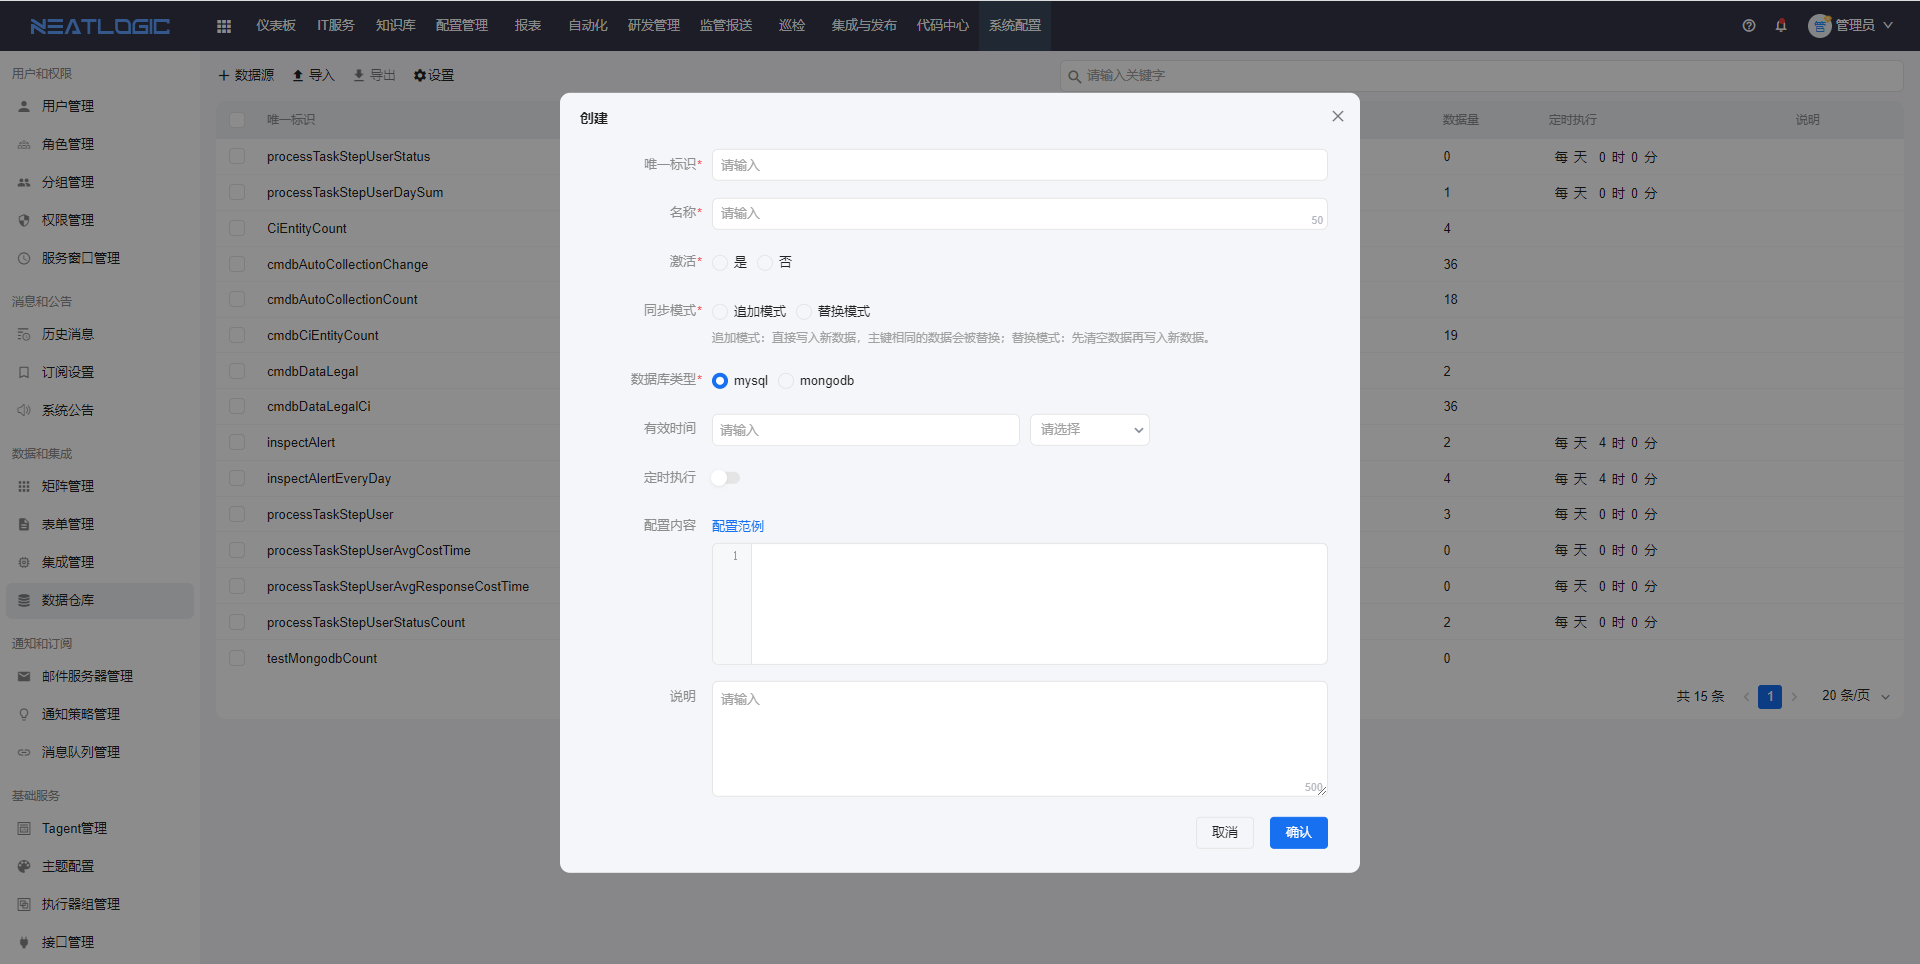
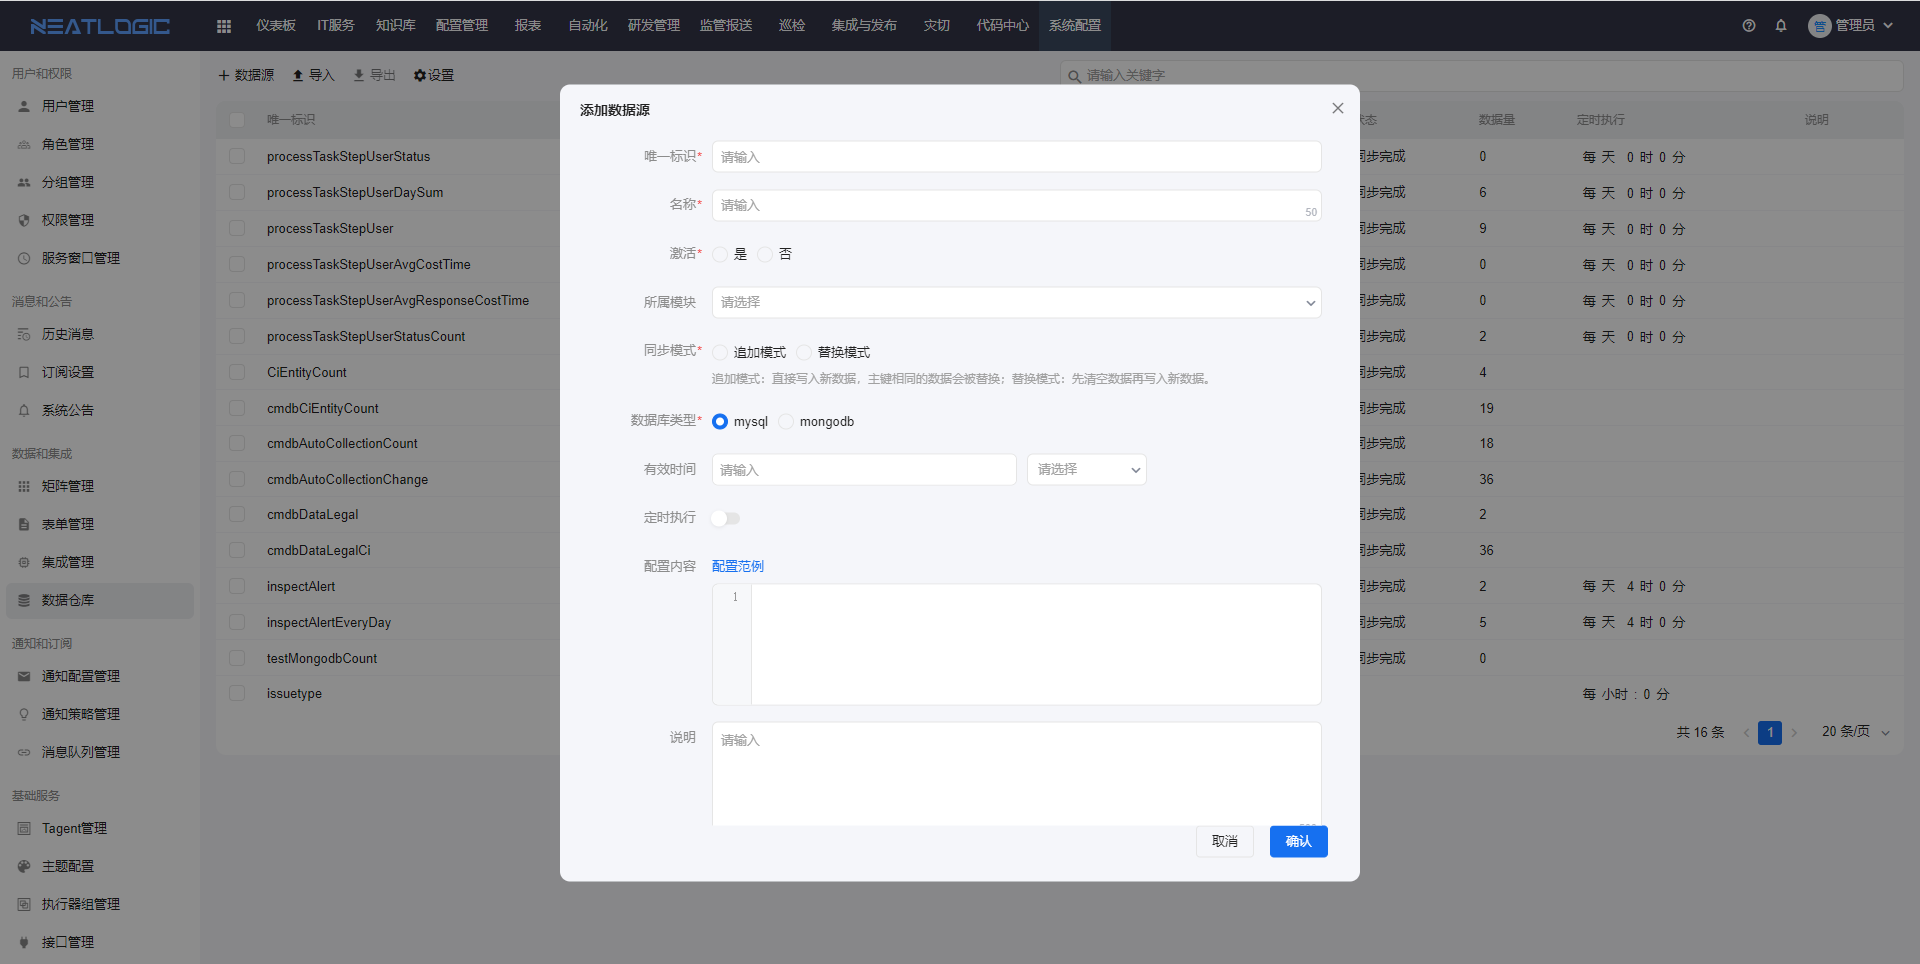
#[1030227977797632]在线帮助文档-项目处理、工作台 http://192.168.0.96:8090/demo/rdm.html#/story-detail/939050947543040/939050947543042/1030227977797632

diff --git a/src/main/resources/neatlogic/resources/documentonline/zh/7.研发管理/项目功能介绍.md b/src/main/resources/neatlogic/resources/documentonline/zh/7.研发管理/项目功能介绍.md
@@ -1,0 +1,73 @@
+# 项目应用功能
+项目包括迭代、需求、缺陷和任务等应用，下面主要介绍迭代和需求功能。
+
+## 迭代
+迭代主要是用于按照阶段管理项目的事务，比如说把一个月作为一个阶段频次来管理待办需求、任务和缺陷，当所有的事务都关闭后，迭代才算完成。
+
+迭代完成度100%的效果如图所示。
+![](images/end_iteration.gif)
+### 添加迭代
+在迭代页面，点击添加迭代，填写迭代信息并保存即可。
+![](images/add_iteration.png)
+
+### 编辑迭代
+在迭代详情页面，点击编辑按钮，修改基本信息并保存即可。
+![](images/edit_iteration.gif)
+
+### 关闭迭代
+迭代列表上有个开启按钮，点击后，迭代关闭，并且左侧迭代列表自动移除已关闭的迭代。
+![](images/close_iteration.png)
+
+### 管理迭代的事务
+在迭代中可以添加和删除需求、任务、缺陷和测试用例，这是直接添加的方式。
+![](images/manage_iteration.png)
+另外可以在需求、缺陷的详情页面，在迭代下拉框中选择目标迭代，保存后，相应的需求、缺陷等就会加入到迭代中。
+![](images/link_iteration.png)
+
+## 需求
+需求页面包括了目录和需求列表。
+
+### 需求目录
+需求目录是用于需求分类，支持添加、删除和编辑。
+![](images/demand_catalogue.png)
+
+### 需求列表
+需求列表默认是以列表模式展示，还支持切换成故事墙和甘特图的模式。
+- 故事墙：从需求的状态的维度来展示需求。
+  ![](images/story_wall.png)
+- 甘特图：从需求的计划时间的角度来展示需求。
+  ![](images/gantt_chart.png)
+
+### 字段设置
+表格的字段可以通过字段设置来修改字段的排序和显示方式。
+![](images/field_setting.png)
+
+### 添加需求
+在需求列表，点击添加按钮，填写需求的信息并保存即可，需求中间那部分是需求的属性，属性由项目的[应用设置](../7.研发管理/项目管理.md/#编辑项目)控制。
+![](images/add_demand.png)
+
+### 需求流转
+需求处理主要表现在状态流转，打开需求的详情页面，选择下一状态，点击流转按钮即可完成状态流转。
+![](images/change_status.gif)
+
+### 编辑需求
+在需求的详情页面支持修改需求属性和基本信息，但是前提条件是需求的状态不是[结束状态](../7.研发管理/模板管理.md/#状态设置)。
+![](images/edit_demand.png)
+
+### 关联任务、缺陷
+需求支持关联任务、缺陷等，在需求的详情页面，可以快速添加任务、缺陷，也支持关联已有的任务、缺陷。
+![](images/demand_link_task.gif)
+
+### 关联gitlab
+项目配了代码提交的触发配置。在gitlab中提交代码，并把需求的源码关键字复制到提交代码的message中，需求的gitlab提交中生成相应的提交记录。
+![](images/gitlab.png)
+在需求详情中复制源码关键字，如图所示。
+![](images/source_keyword.png)
+
+## 仪表版
+项目支持配置基于研发管理模块数据的仪表版，数据源来自[数据仓库](../100.系统配置/数据仓库.md)。
+
+项目的仪表版的配置详情可参考[仪表版](../1.仪表板/仪表板.md/#添加仪表板)。
+
+仪表板效果预览如图。
+![](images/dashborad.png)

diff --git a/src/main/resources/neatlogic/resources/documentonline/zh/7.研发管理/工作台.md b/src/main/resources/neatlogic/resources/documentonline/zh/7.研发管理/工作台.md
@@ -1,0 +1,20 @@
+# 工作台
+工作台是辅助用户快速查看自己相关内容的模块，包括“我的待办”、“我的已办”、“我的上报”和“我的关注”四个页面。
+
+## 我的待办
+我的待办列表显示当前登录人待处理的所有事务，这些事务要满足两个条件，处理人包含当前登录人，事务的状态是非关闭状态。
+![](images/To_Do_List.png)
+
+## 我的已办
+我的一般列表显示当前登录人处理过的所有事务，这些事务不限状态，事务的变更记录中存在当前登录人的变更记录。
+![](images/completed_list.png)
+![](images/change_history.png)
+
+## 我的上报
+我的上报列表显示创建人是当前登录用户的所有事务，这些事务不限状态。
+![](images/my_reported.png)
+
+## 我的关注
+我的关注列表显示当前登录人关注的事务，在事务详情页面，可关注事务。
+![](images/my_favorite.png)
+![](images/favorite.png)

diff --git a/src/main/resources/neatlogic/resources/documentonline/zh/100.系统配置/数据仓库.md b/src/main/resources/neatlogic/resources/documentonline/zh/100.系统配置/数据仓库.md
@@ -2,9 +2,11 @@
 数据仓库是将用户自定义sql脚本保存为数据源配置，支持手动或定时更新数据，只支持查询本地库。数据仓库的数据源可用于仪表板组件。
 
 ### 添加数据仓库
-点击添加按钮，出现新建数据仓库弹窗，填写唯一标识、名称、激活状态、同步模式、数据仓库类型和配置内容，保存即可。
+点击添加按钮，出现新建数据仓库弹窗，填写数据仓库配置，保存即可。
 ![](README_IMAGES/data_warehouse/数据仓库_添加.png)
 若需要定时更新数据，例如每天更新一次数据，可启用定时执行配置，设置每天的具体时间点定时策略。
+
+如果数据源是应用于研发管理模块，数据源配置所属模块应选择研发管理。
 
 ### 导入导出
 数据源配置支持批量导出导入
